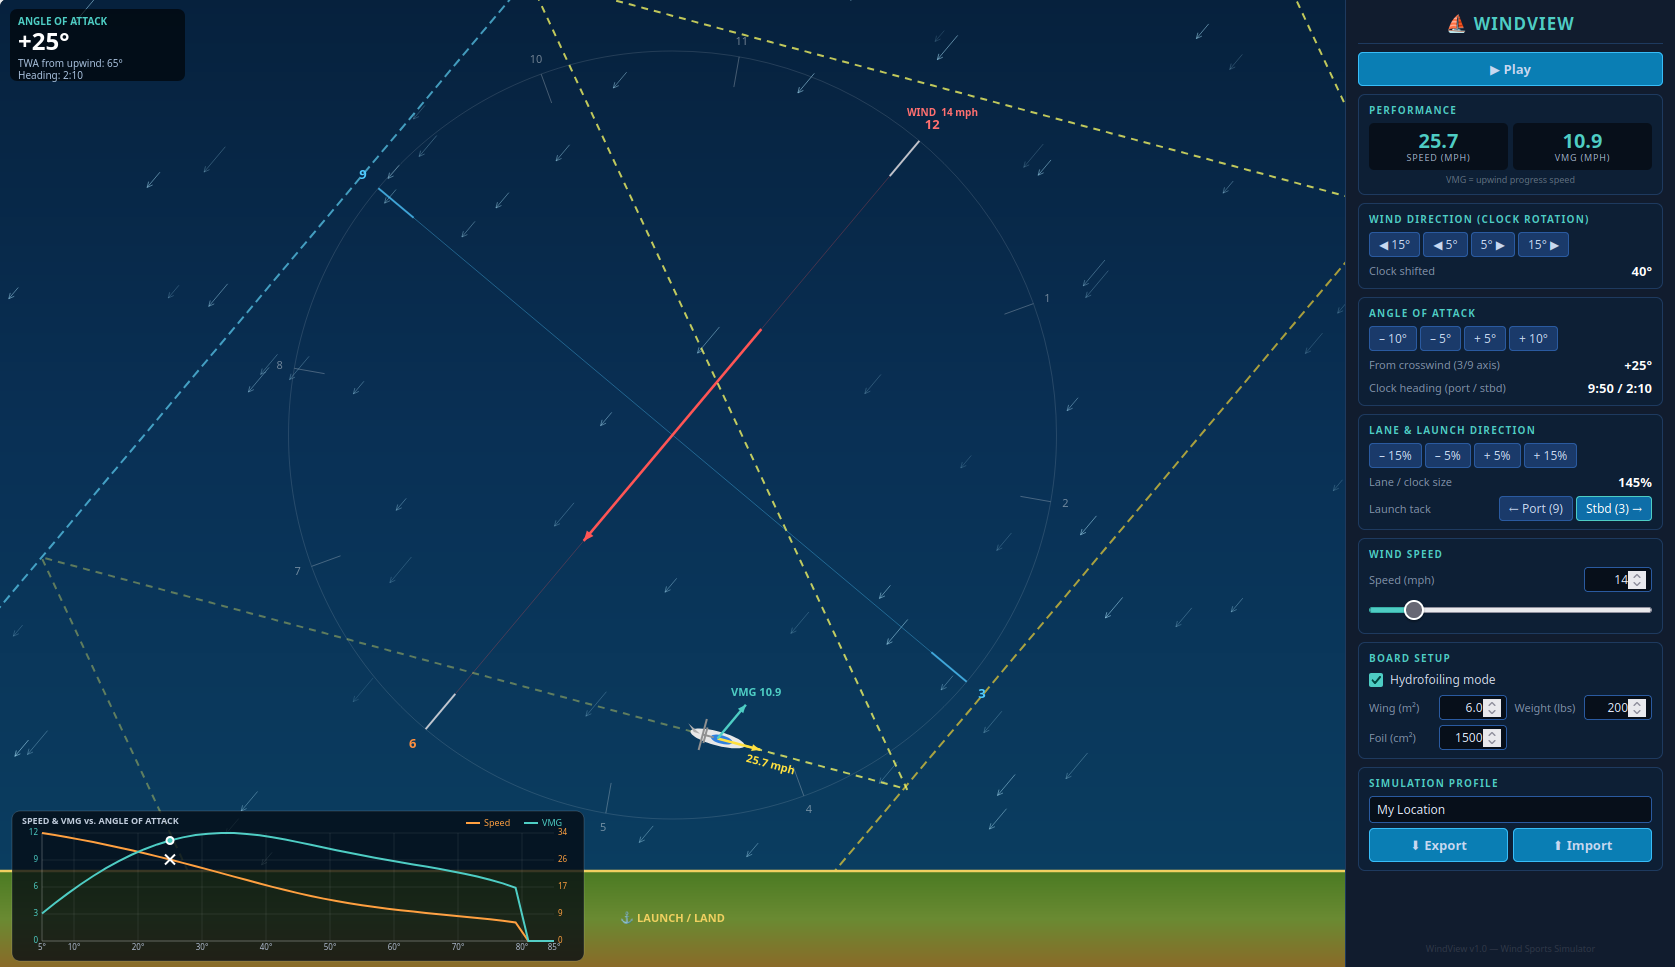
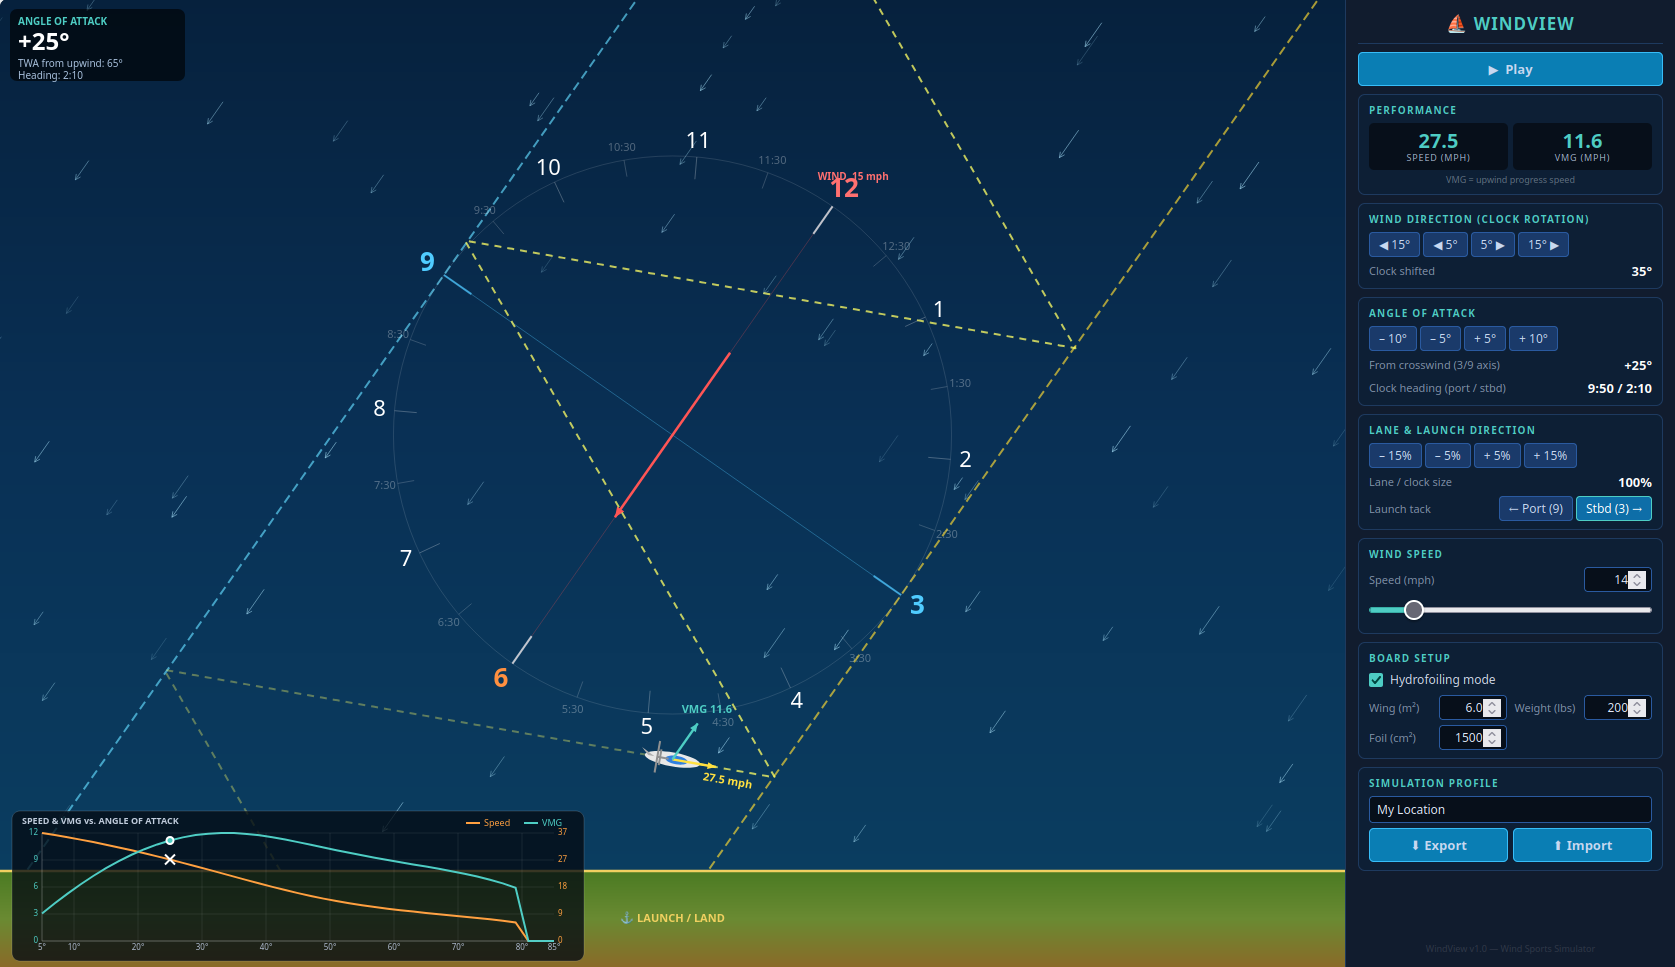
Updated screenshot

diff --git a/windview.html b/windview.html
@@ -1004,14 +1004,36 @@ function drawClock(g) {
         ctx.stroke();
 
         // Number
-        ctx.font         = `${is126 || is39 ? 'bold ' : ''}${is126 || is39 ? 13 : 11}px sans-serif`;
+        ctx.font         = `${is126 || is39 ? 'bold ' : ''}${is126 || is39 ? 26 : 22}px sans-serif`;
         ctx.fillStyle    = h === 12 ? '#ff7070'
                          : h === 6  ? '#ff9040'
                          : is39     ? '#50ccff'
-                         :            'rgba(255,255,255,0.42)';
+                         :            '#ffffff';
         ctx.textAlign    = 'center';
         ctx.textBaseline = 'middle';
         ctx.fillText(String(h), cx + numR * Math.cos(ang), cy + numR * Math.sin(ang));
+    }
+
+    // Half-hour labels (1:30, 2:30, 4:30, 5:30, 7:30, 8:30, 10:30, 11:30)
+    for (let h = 0.5; h <= 11.5; h++) {
+        if (Math.abs(h % 1) < 0.001) continue; // skip whole hours, already drawn
+        const angDeg = (h / 12) * 360 - 90 + S.windAngle;
+        const ang    = angDeg * Math.PI / 180;
+        const inner  = r * 0.94;
+        const numR   = r + 13;
+
+        ctx.strokeStyle = 'rgba(255,255,255,0.18)';
+        ctx.lineWidth   = 1;
+        ctx.beginPath();
+        ctx.moveTo(cx + inner * Math.cos(ang), cy + inner * Math.sin(ang));
+        ctx.lineTo(cx + r     * Math.cos(ang), cy + r     * Math.sin(ang));
+        ctx.stroke();
+
+        ctx.font         = '11px sans-serif';
+        ctx.fillStyle    = 'rgba(255,255,255,0.3)';
+        ctx.textAlign    = 'center';
+        ctx.textBaseline = 'middle';
+        ctx.fillText(fmtClockHour(h), cx + numR * Math.cos(ang), cy + numR * Math.sin(ang));
     }
 
     // Wind arrow 12→6
